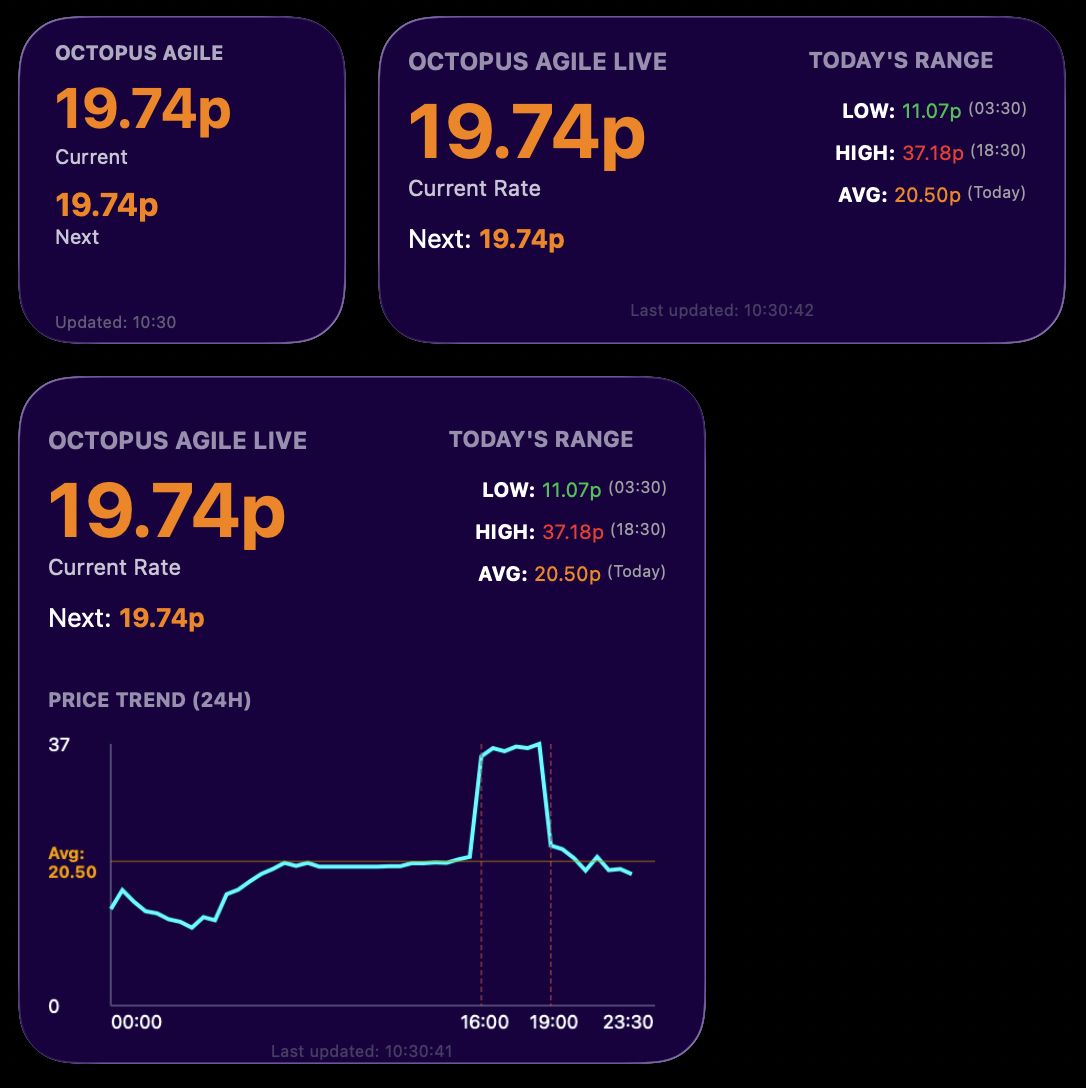
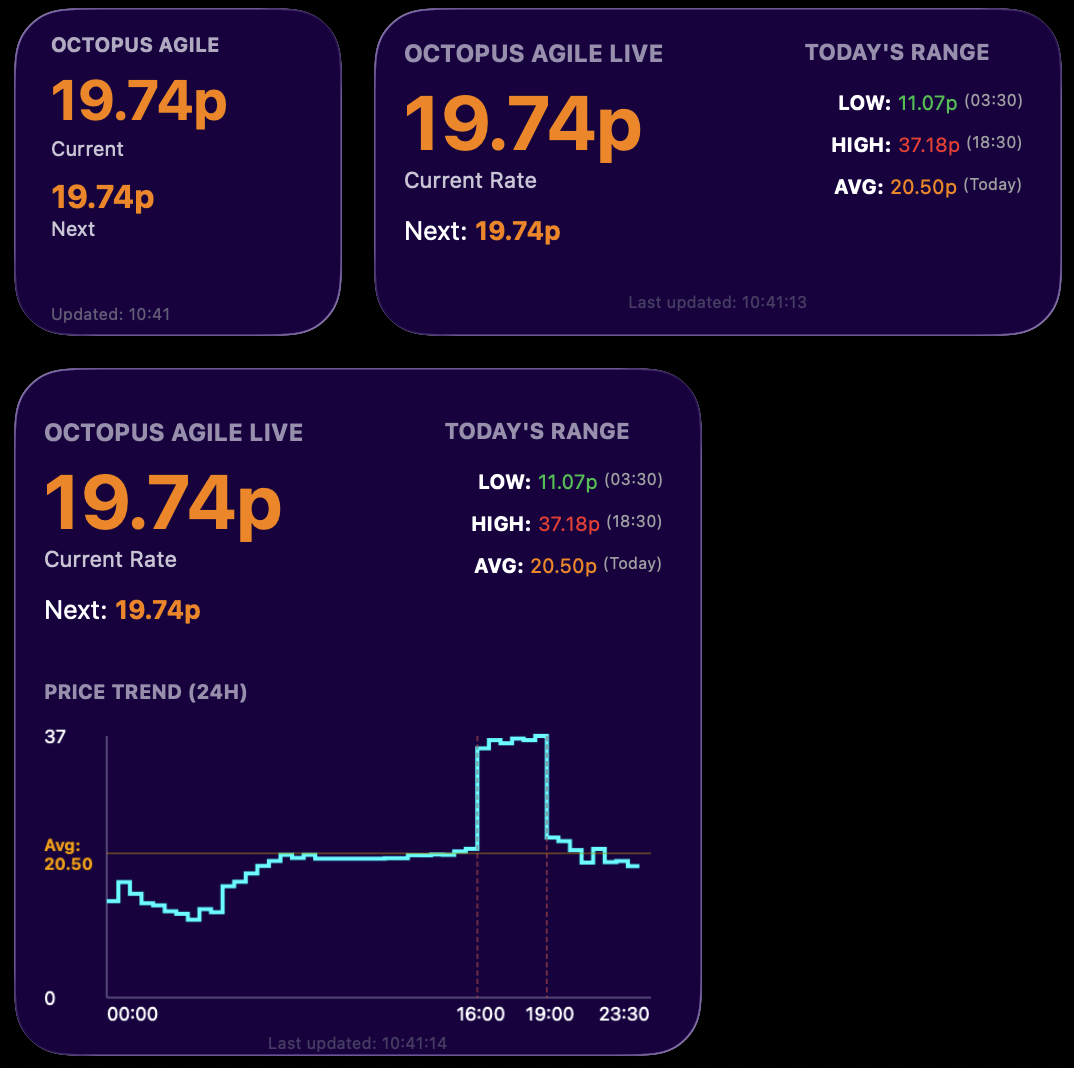
Improve graph layout

diff --git a/octopus_agile_live.js b/octopus_agile_live.js
@@ -371,6 +371,7 @@ function drawChart(data, min, max) {
   // Draw Line
   let path = new Path();
   let first = true;
+  let prevPt = null;
 
   for (let i = 0; i < data.length; i++) {
     // Calculate slot index based on time 00:00 - 23:30
@@ -381,12 +382,42 @@ function drawChart(data, min, max) {
     if (slotIndex >= totalSlots) slotIndex = totalSlots - 1;
 
     let pt = new Point(getX(slotIndex), getY(data[i].value_inc_vat));
+
     if (first) {
       path.move(pt);
       first = false;
     } else {
+      // Step Chart Logic:
+      // 1. Draw Horizontal line from PrevPt to current X (maintaining PrevPt Y)
+      // 2. Draw Vertical line from current X (PrevPt Y) to current Pt
+      // Note: Data is discrete slots. 
+      // Point A is the START of slot A. Point B is the START of slot B.
+      // So the price of Slot A extends until the start of Slot B.
+      // Therefore: Horizontal from A to (B.x, A.y), then Vertical to B.
+      let midPt = new Point(pt.x, prevPt.y);
+      path.addLine(midPt);
       path.addLine(pt);
     }
+    prevPt = pt;
+  }
+
+  // Extend the last point horizontally to the end of the slot width
+  // Because the last point represents the updated price for the LAST slot, 
+  // it should stay constant until the end of that slot.
+  if (prevPt) {
+    // We are plotting indexed points. Point N corresponds to start of slot N.
+    // We need to draw the line for slot N from slot N start to slot N end (slot N+1 start).
+    // The loop connects N-1 to N.
+    // We need to finish by drawing N.
+    // Calculate X for "next slot" (which might be off graph right edge)
+    let lastSlotIndex = (totalSlots > 0) ? (prevPt.x - padLeft) / graphW * (totalSlots - 1) : 0;
+    // Rough calculation back from X, but cleaner to just use next step width
+    let stepWidth = graphW / (totalSlots - 1);
+    let endPt = new Point(prevPt.x + stepWidth, prevPt.y);
+
+    // Only add if it's within visual bounds or clamp it
+    // Usually we want to see the flat line for the last price
+    path.addLine(endPt);
   }
 
   ctx.addPath(path);
